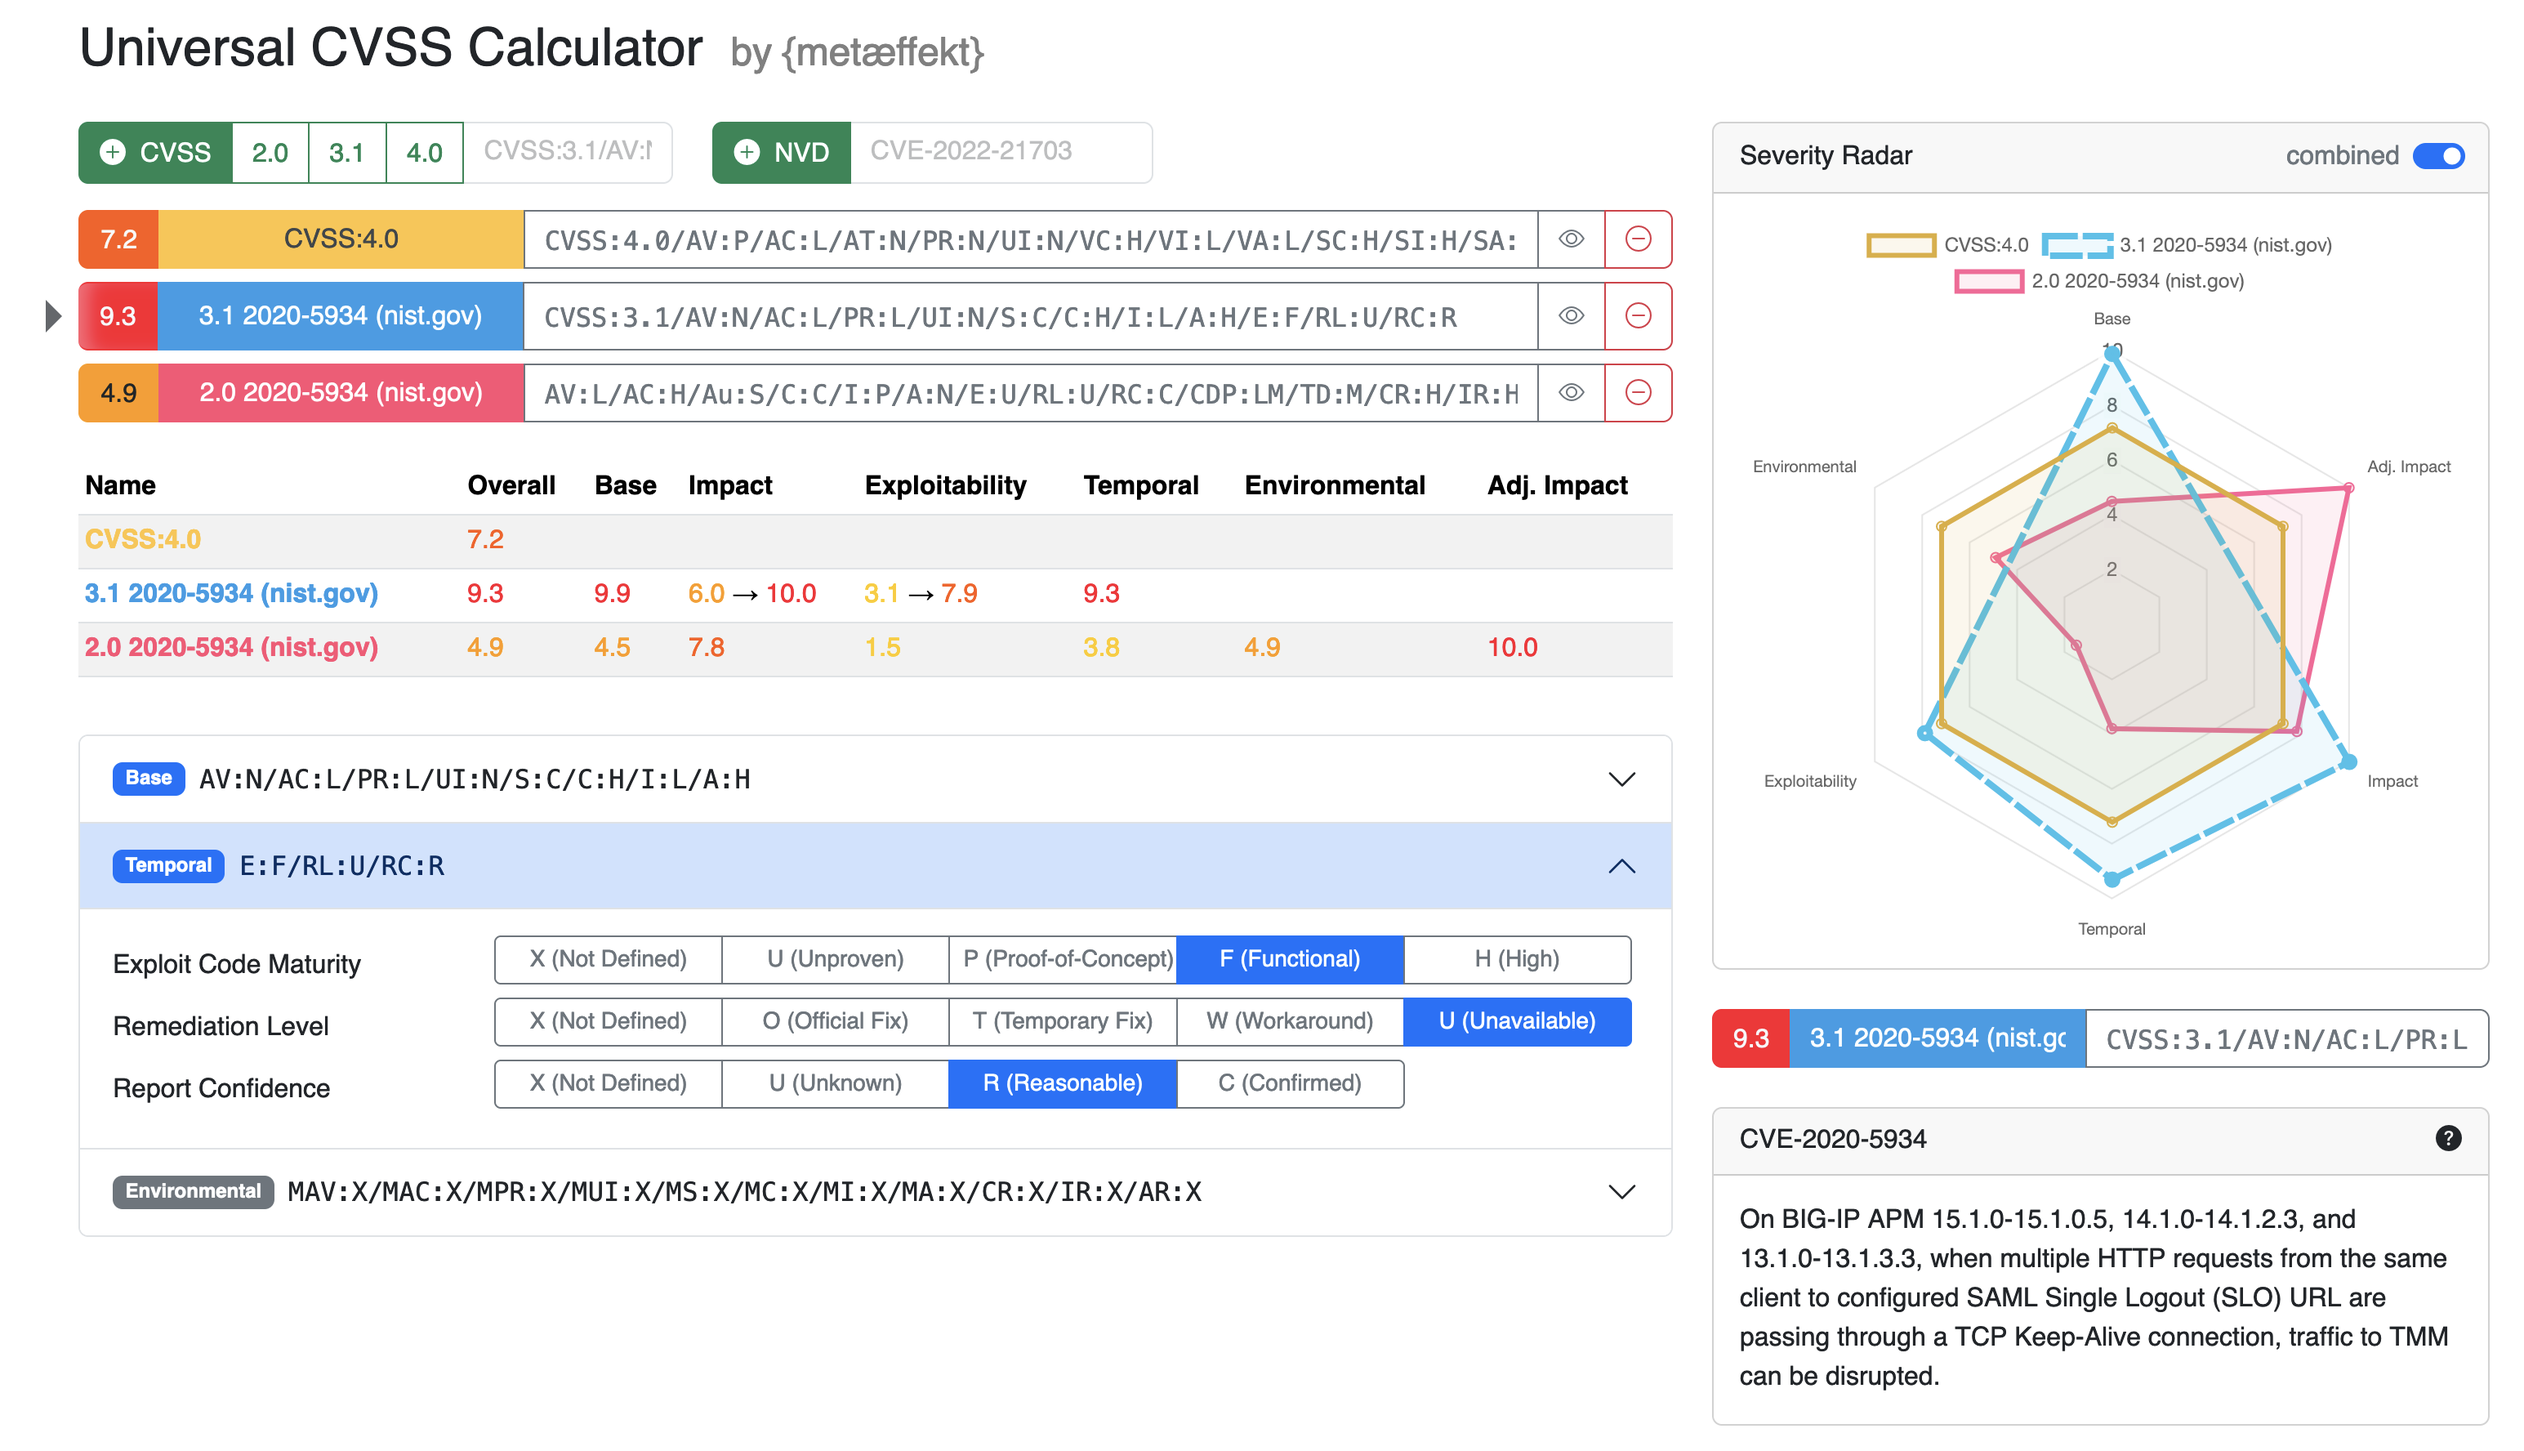
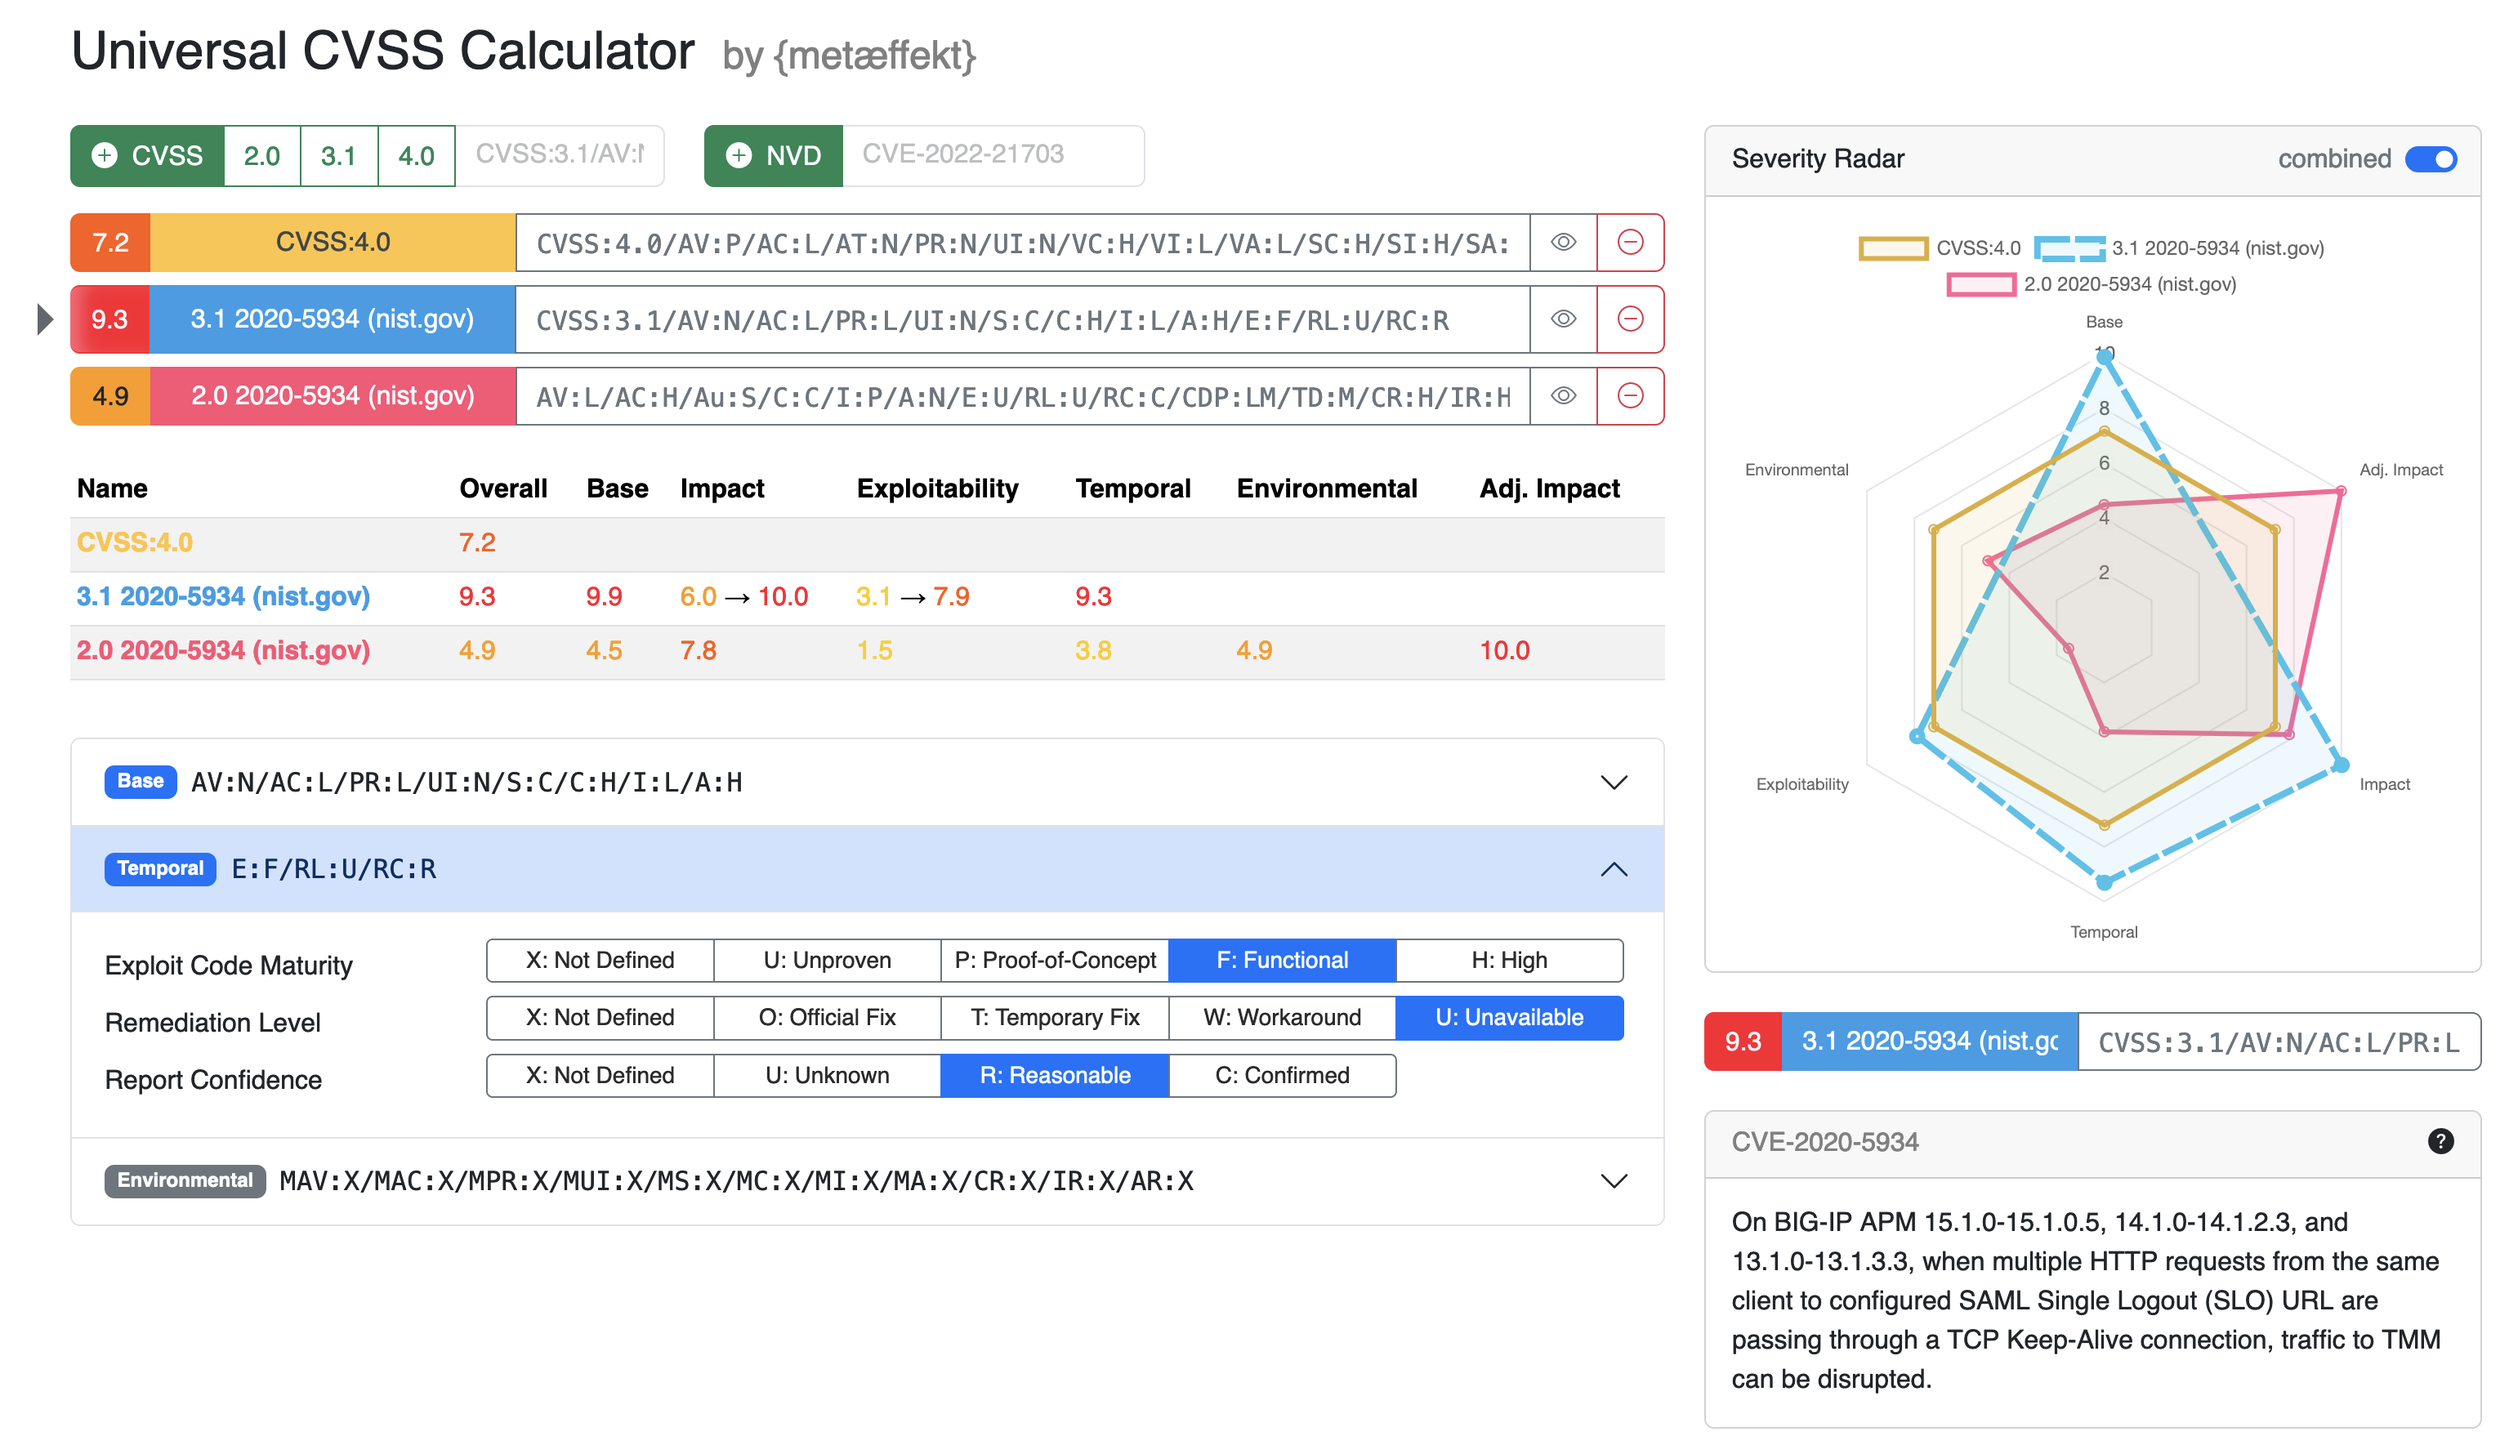
- Changed the way abbreviations are calculated to guarantee they are displayed properly. - "Not Defined" components are now shown in an outline style.

diff --git a/site/js/scripts.js b/site/js/scripts.js
@@ -990,6 +990,10 @@ function updateAbbreaviatableComponentElements() {
         const element = abbr.element;
 
         const availableWidth = element.clientWidth;
+        if (availableWidth === 0) {
+            // console.warn('availableWidth is 0, skipping abbreviation');
+            continue;
+        }
 
         // now try to find the first that fits
         for (let textVariant of textVariants) {
@@ -1189,7 +1193,7 @@ function setSelectedVector(vectorInstance) {
                     componentButton.appendChild(buttonText);
 
                     if (componentValue === currentValue) {
-                        let type = (componentValue.shortName === 'X' || componentValue.shortName === 'ND') ? 'secondary' : 'primary';
+                        let type = (componentValue.shortName === 'X' || componentValue.shortName === 'ND') ? 'outline-primary' : 'primary';
                         componentButton.classList.add('btn-' + type);
                     } else {
                         componentButton.classList.add('btn-outline-secondary');
@@ -1212,6 +1216,7 @@ function setSelectedVector(vectorInstance) {
 
         // add listener to register whether the accordion is expanded or collapsed to add or remove it from the list of expanded categories
         accordionButton.addEventListener('click', () => {
+            setTimeout(updateAbbreaviatableComponentElements, 30);
             if (shouldBeCollapsed) {
                 expandedComponentCategories.push(componentCategoryName);
             } else {

diff --git a/site/styles.css b/site/styles.css
@@ -381,6 +381,17 @@ body {
     border-color: var(--bs-warning) !important;
 }
 
+.accordion-cvss-4P0 .btn.btn-outline-primary {
+    color: var(--bs-warning) !important;
+    border-color: var(--bs-warning) !important;
+    --bs-btn-hover-bg: var(--bs-warning) !important;
+}
+
+.accordion-cvss-4P0 .btn.btn-outline-primary:hover, .accordion-cvss-4P0 .btn.btn-outline-primary:active {
+    color: white !important;
+    background-color: var(--bs-warning) !important;
+}
+
 .accordion-cvss-2P0 {
     --bs-accordion-btn-color: var(--bs-dark);
     /* --bs-accordion-btn-bg: #ffccd7; */
@@ -395,6 +406,17 @@ body {
 .accordion-cvss-2P0 .btn.btn-primary {
     background-color: var(--cvss-2-color) !important;
     border-color: var(--cvss-2-color) !important;
+}
+
+.accordion-cvss-2P0 .btn.btn-outline-primary {
+    color: var(--cvss-2-color) !important;
+    border-color: var(--cvss-2-color) !important;
+    --bs-btn-hover-bg: var(--cvss-2-color) !important;
+}
+
+.accordion-cvss-2P0 .btn.btn-outline-primary:hover, .accordion-cvss-2P0 .btn.btn-outline-primary:active {
+    color: white !important;
+    background-color: var(--cvss-2-color) !important;
 }
 
 .bg-pastel-gray {
@@ -448,6 +470,7 @@ input.btn {
 .cvss-component-button {
     position: relative;
     height: 1.7rem;
+
 }
 
 .cvss-component-button .button-text {
@@ -458,4 +481,8 @@ input.btn {
     white-space: nowrap;
     overflow-x: hidden;
     width: 100%;
+}
+
+.btn-outline-secondary.cvss-component-button {
+    --bs-btn-color: #2b2b2b;
 }
